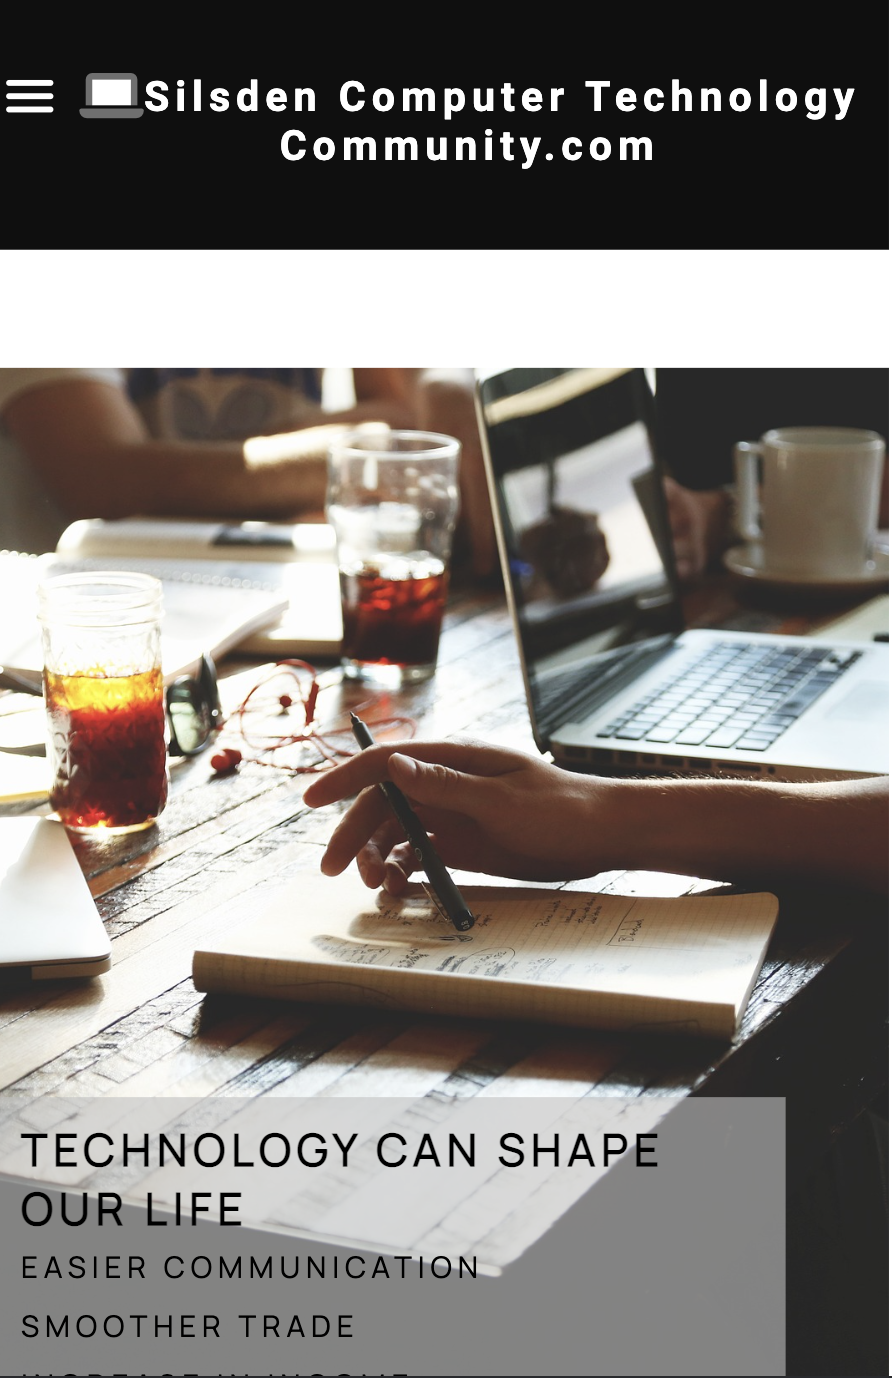
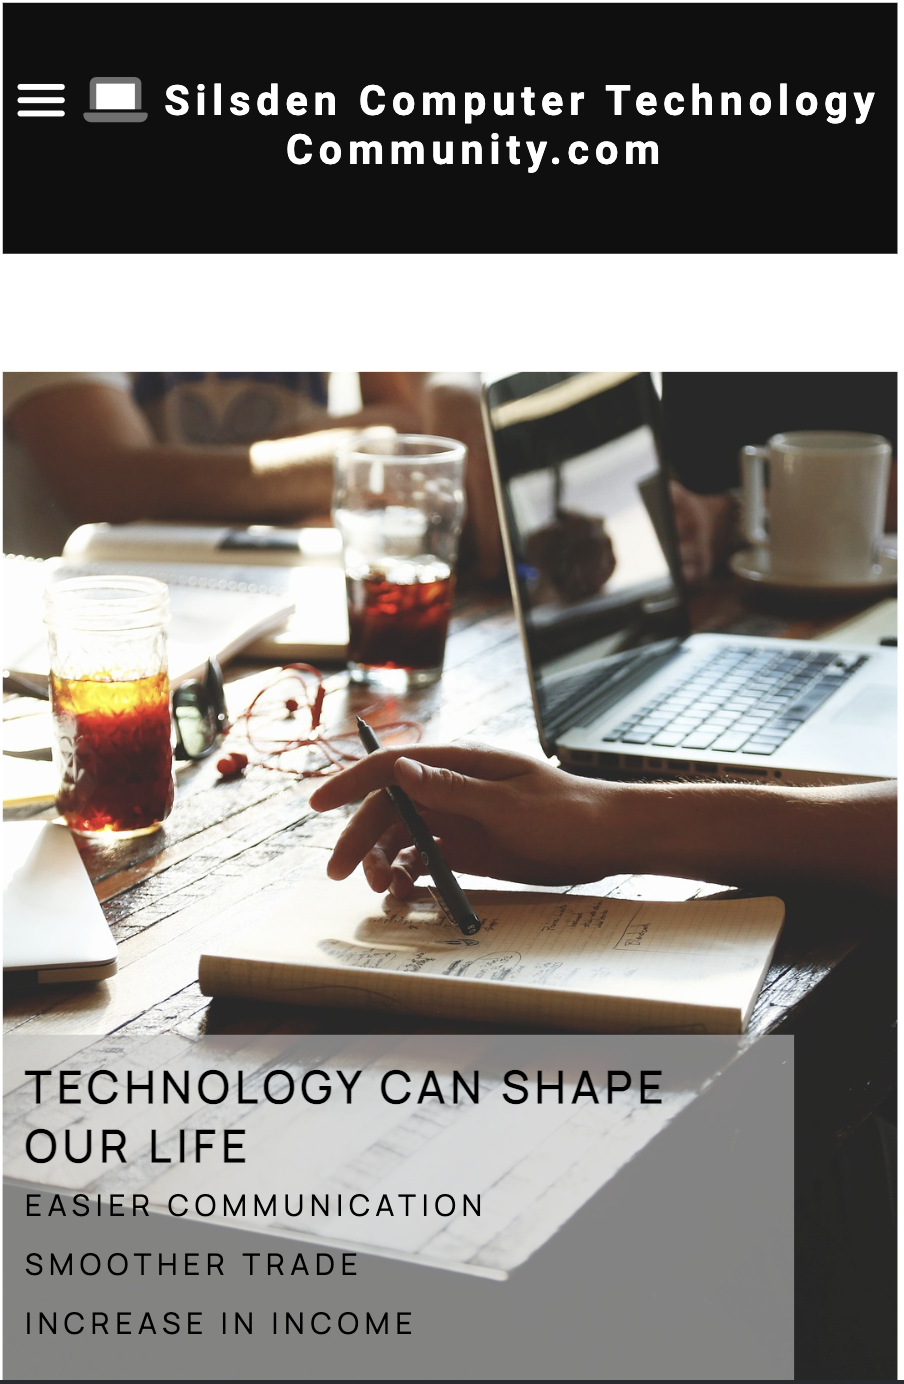
Add README.MD file

diff --git a/assets/css/style.css b/assets/css/style.css
@@ -46,9 +46,13 @@ h1 {
   color: #fff;
   padding-top: 30px;
 }
+.fa-duotone {
+  margin-left: 0.8rem;
+}
 /*header end here */
 
 /* header nav start */
+
 .header-nav {
   text-align: center;
   letter-spacing: 0.2rem;
@@ -65,7 +69,8 @@ h1 {
   position: absolute;
   top: 36px;
   left: 0;
-  margin-left: 0.3em;
+  margin-left: 10px;
+  margin-right: 0.8em;
   height: 100%;
   display: flex;
   align-items: center;
@@ -95,7 +100,7 @@ h1 {
 .header-nav-menu {
   position: absolute;
   text-align: left;
-  top: 170%;
+  top: 200%;
   left: 0;
   background-color: #f0f0f0;
   width: 100%;
@@ -130,8 +135,6 @@ h1 {
   opacity: 1;
   transition: opacity 250ms ease-in-out 250ms;
 }
-/* header nav end here*/
-/* header end here*/
 
 /* main start here*/
 /* hero image here*/
@@ -143,7 +146,7 @@ h1 {
   display: block;
   object-fit: cover;
   width: 100%;
-  height: 78vh;
+  height: 100vh;
   background: url("../images/startup-gc4918148f_1920.jpg") no-repeat center
     center;
   position: relative;
@@ -590,7 +593,6 @@ h1 {
 
 /* media query start here*/
 @media screen and (min-width: 800px) {
-  /* header nav start*/
   .header-nav-toggle-label {
     display: none;
   }
@@ -599,6 +601,7 @@ h1 {
     margin-top: 120px;
     height: 80px;
   }
+
   .header-nav-menu {
     display: grid;
     grid-template-columns: 1fr auto minmax(600px, 1fr) 1fr;
@@ -660,6 +663,7 @@ h1 {
   }
   .main-hero-image-cover-text {
     left: 0;
+    height: auto;
   }
   .main-weekly-agenda-template-list {
     display: flex;

diff --git a/index.html b/index.html
@@ -21,7 +21,7 @@
       <div id="header" class="header">
         <a href="index.html" aria-label="Visit our website (open in a same tab)"
           ><h1>
-            <i class="fa-duotone fa-laptop fa-lg"></i>Silsden Computer
+            <i class="fa-duotone fa-laptop fa-lg"></i> Silsden Computer
             Technology Community.com
           </h1></a
         >
